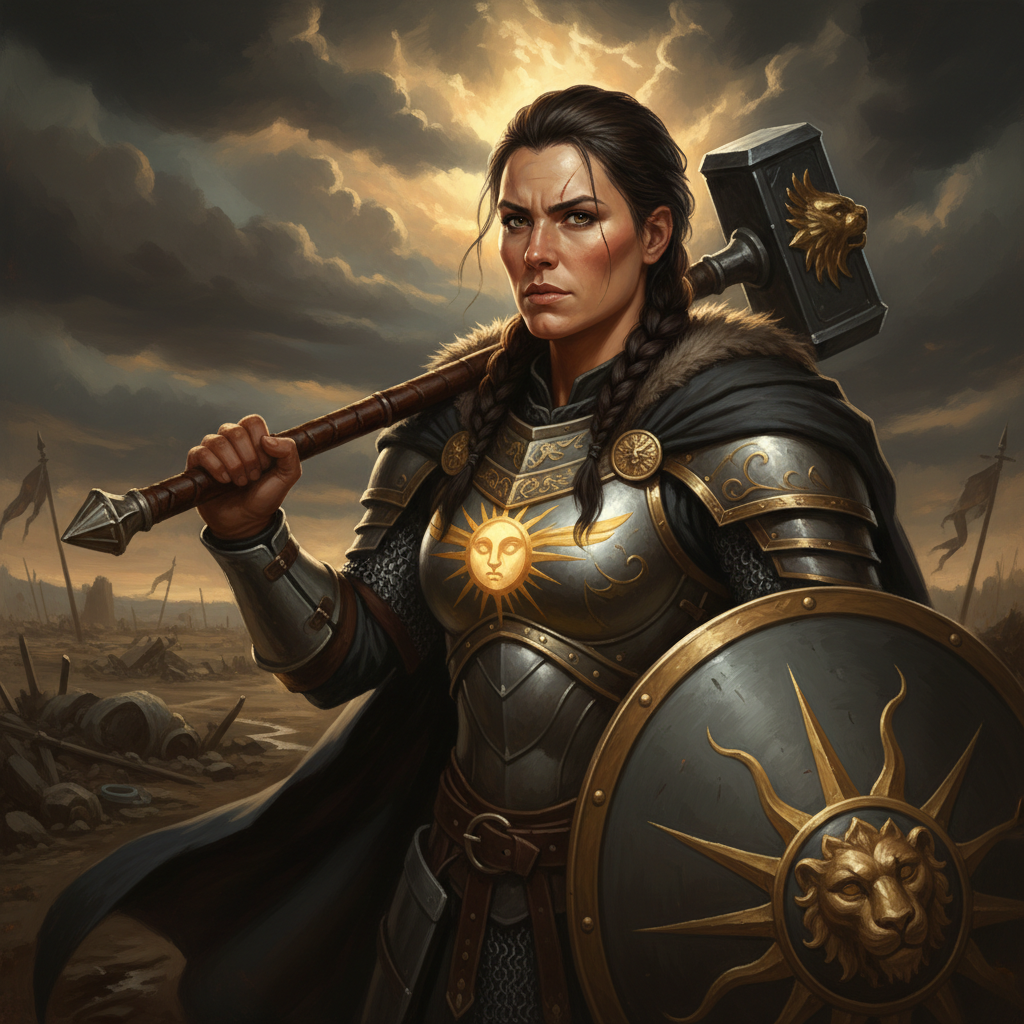
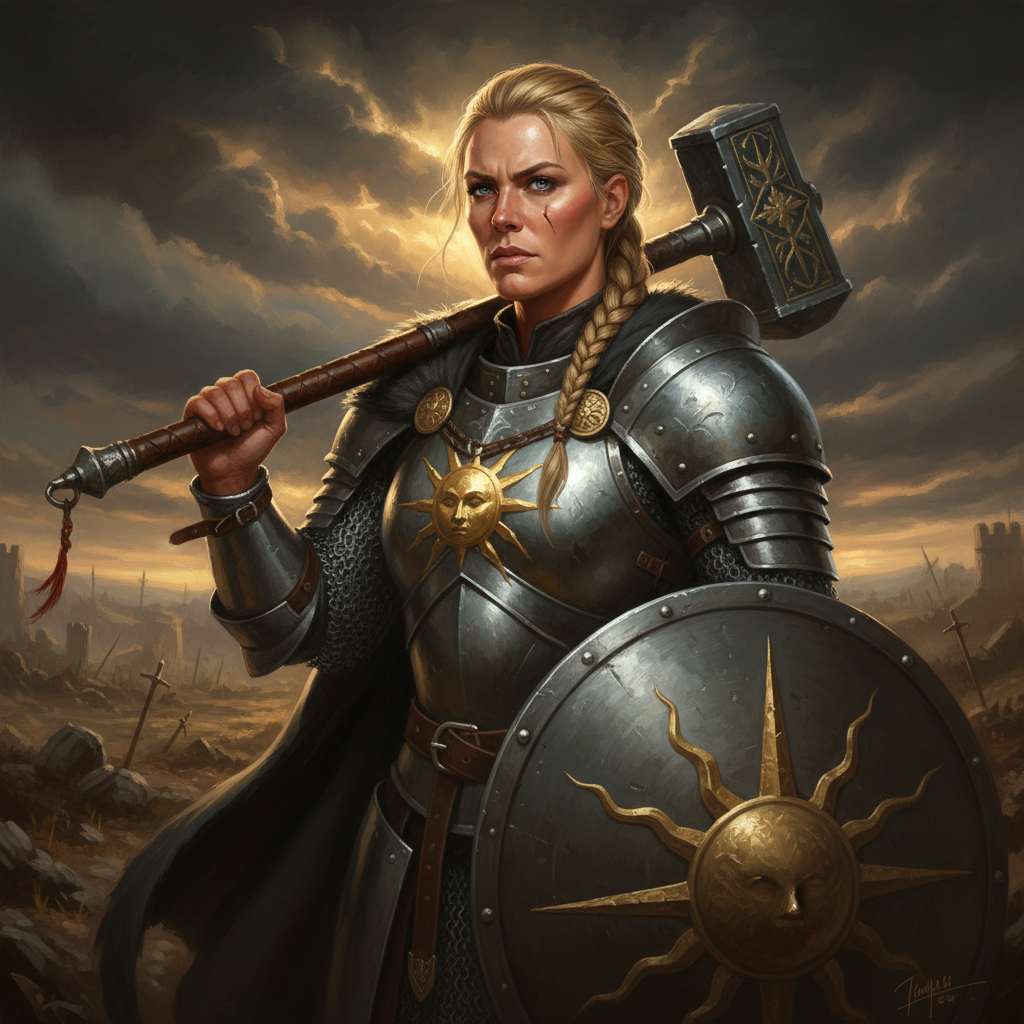
fix: correction nom Sandra (Maera Vifbois) + simplification brouillard hero
- Renommage Vibois Thaera → Maera Vifbois dans CLAUDE.md et README.md
- Brouillard : supprime masque radial CSS, utilise opacity/filter inline avec délai 2s
- Portrait maera-vifbois.png mis à jour
- Leçon slotLevels findIndex ajoutée

diff --git a/app/components/codex/CodexHero.vue b/app/components/codex/CodexHero.vue
@@ -7,7 +7,8 @@ defineProps<{ character: Character }>()
 const fogRevealed = ref(false)
 
 onMounted(() => {
-  requestAnimationFrame(() => { fogRevealed.value = true })
+  // Petit délai pour que le brouillard soit visible avant la dissipation
+  setTimeout(() => { fogRevealed.value = true }, 2000)
 })
 </script>
 
@@ -37,10 +38,12 @@ onMounted(() => {
 
         <!-- Brouillard multi-couches qui se dissipe -->
         <div
-          class="absolute inset-0 pointer-events-none z-10 overflow-hidden fog-container"
-          :class="fogRevealed ? 'fog-dissipate' : ''"
+          class="absolute inset-0 pointer-events-none z-10 overflow-hidden"
+          :style="{ opacity: fogRevealed ? 0 : 1, filter: fogRevealed ? 'blur(8px)' : 'blur(1px) sepia(0.3)', transition: 'opacity 10s ease-in-out 0.5s, filter 10s ease-in-out 0.5s' }"
           aria-hidden="true"
         >
+          <!-- Fond opaque pour rendre les PNG fog visibles -->
+          <div class="absolute inset-0 bg-obsidian" />
           <div class="fog-layer fog-layer-1" />
           <div class="fog-layer fog-layer-1b" />
           <div class="fog-layer fog-layer-2" />
@@ -134,22 +137,7 @@ onMounted(() => {
 </template>
 
 <style scoped>
-/* ── Brouillard dense multi-couches, dissipation radiale du centre ── */
-.fog-container {
-  filter: blur(1px) grayscale(0.2) saturate(1.2) sepia(0.3);
-  /* Masque radial : opaque partout au départ */
-  mask-image: radial-gradient(ellipse at center, black 0%, black 100%);
-  -webkit-mask-image: radial-gradient(ellipse at center, black 0%, black 100%);
-  transition: mask-image 10s ease-in-out, -webkit-mask-image 10s ease-in-out, opacity 10s ease-in-out, filter 10s ease-in-out;
-}
-.fog-dissipate {
-  opacity: 0;
-  filter: blur(6px);
-  /* Le trou s'ouvre du centre vers les bords */
-  mask-image: radial-gradient(ellipse at center, transparent 0%, transparent 60%, black 100%);
-  -webkit-mask-image: radial-gradient(ellipse at center, transparent 0%, transparent 60%, black 100%);
-}
-
+/* ── Brouillard dense multi-couches ── */
 .fog-layer {
   position: absolute;
   height: 100%;

diff --git a/README.md b/README.md
@@ -11,7 +11,7 @@ Bibliothèque de fiches de personnages **D&D 5e** en codex médiévaux (parchemi
 | [`dareth-brumeval`](https://donjon-et-dragons.vercel.app/personnages/dareth-brumeval) | Dareth Brumeval | Steve | Demi-elfe · Rôdeur niveau 4 |
 | [`skamos-aurum`](https://donjon-et-dragons.vercel.app/personnages/skamos-aurum) | Skamos Aurum | Normand | Tieffelin · Ensorceleur niveau 4 |
 | [`zanna`](https://donjon-et-dragons.vercel.app/personnages/zanna) | Zanna | Myriam | Gnome des forêts · Occultiste niveau 3 |
-| [`vibois-thaera`](https://donjon-et-dragons.vercel.app/personnages/vibois-thaera) | Vibois Thaera | Sandra | Humain · Paladin (Conquête) niveau 4 |
+| [`maera-vifbois`](https://donjon-et-dragons.vercel.app/personnages/maera-vifbois) | Maera Vifbois | Sandra | Humaine · Paladin (Conquête) niveau 4 |
 | [`thunon`](https://donjon-et-dragons.vercel.app/personnages/thunon) | Thunon | Juan | Haut-elfe · Magicien (Évocation) niveau 4 |
 | [`kael-draven`](https://donjon-et-dragons.vercel.app/personnages/kael-draven) | Kael Draven | Jérôme | Humain · Roublard (Voleur) niveau 4 |
 
@@ -54,7 +54,7 @@ donjon-et-dragons/
 │   │   ├── dareth-brumeval.ts
 │   │   ├── skamos-aurum.ts
 │   │   ├── zanna.ts
-│   │   ├── vibois-thaera.ts
+│   │   ├── maera-vifbois.ts
 │   │   ├── thunon.ts
 │   │   └── kael-draven.ts
 │   └── pages/

diff --git a/tasks/lessons.md b/tasks/lessons.md
@@ -55,3 +55,15 @@ Pattern utilisé :
 **Correction** : migrer manuellement vibois-thaera.ts et thunon.ts vers le nouveau format `Spellcasting`.
 
 **Règle** : lors d'une migration de type, **vérifier tous les fichiers de données**, pas seulement ceux qui existaient avant. Lancer `grep -r 'ancienne propriété' app/data/` pour détecter les retardataires.
+
+---
+
+## 2026-04-09 — Index slotLevels : ne pas présumer level-1 = array index
+
+**Contexte** : `canCast()` et `castSpell()` utilisaient `spell.level - 1` comme index dans `slotLevels[]`.
+
+**Erreur** : pour Zanna (occultiste), `slotLevels` est `[{ level: 2, slots: 2 }]` — un seul élément à l'index 0. Un sort niv. 2 calculait `2 - 1 = 1` → index inexistant → bouton Lancer toujours désactivé.
+
+**Correction** : remplacer `spell.level - 1` par `slotLevels.findIndex(sl => sl.level === spell.level)` dans `CodexSpells.vue` et `useCharacterState.ts`.
+
+**Règle** : **ne jamais supposer que l'index d'un tableau correspond au niveau du sort**. Les occultistes et certaines classes n'ont pas de slots à chaque niveau. Toujours faire un `findIndex` par `level`.

diff --git a/CLAUDE.md b/CLAUDE.md
@@ -8,7 +8,7 @@
 - Tests : Vitest (unit) + Playwright (e2e)
 
 ## Personnages (6)
-Steve (Dareth Brumeval), Normand (Skamos Aurum), Myriam (Zanna), Sandra (Vibois Thaera), Juan (Thunon), Jérôme (Kael Draven).
+Steve (Dareth Brumeval), Normand (Skamos Aurum), Myriam (Zanna), Sandra (Maera Vifbois), Juan (Thunon), Jérôme (Kael Draven).
 
 ## Modèle de données
 
